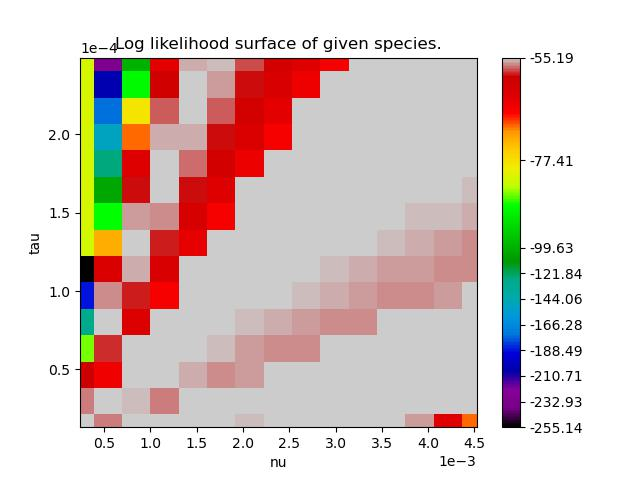
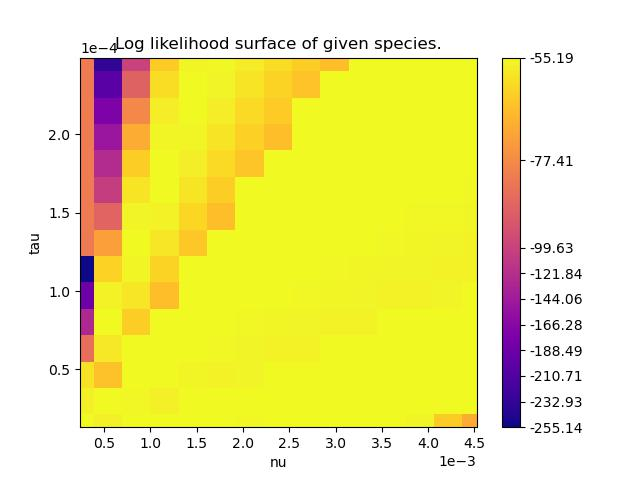
plasma

diff --git a/Scripts/plot_likelihood.py b/Scripts/plot_likelihood.py
@@ -493,7 +493,7 @@ class PlotLikelihood():
                 # pcm = ax.pcolormesh(x, y, z, rasterized=True, norm=midnorm,
                 #                     cmap='RdBu_r', shading='auto')
                 plt.pcolor(x, y, z,
-                           norm=midnorm, cmap='nipy_spectral', shading='auto')
+                           norm=midnorm, cmap='plasma', shading='auto')
                 # plt.pcolor(x, y, z,
                 #             norm=matplotlib.colors.CenteredNorm(), cmap='RdBu_r')
                 ax.axis([x.min(), x.max(), y.min(), y.max()])
